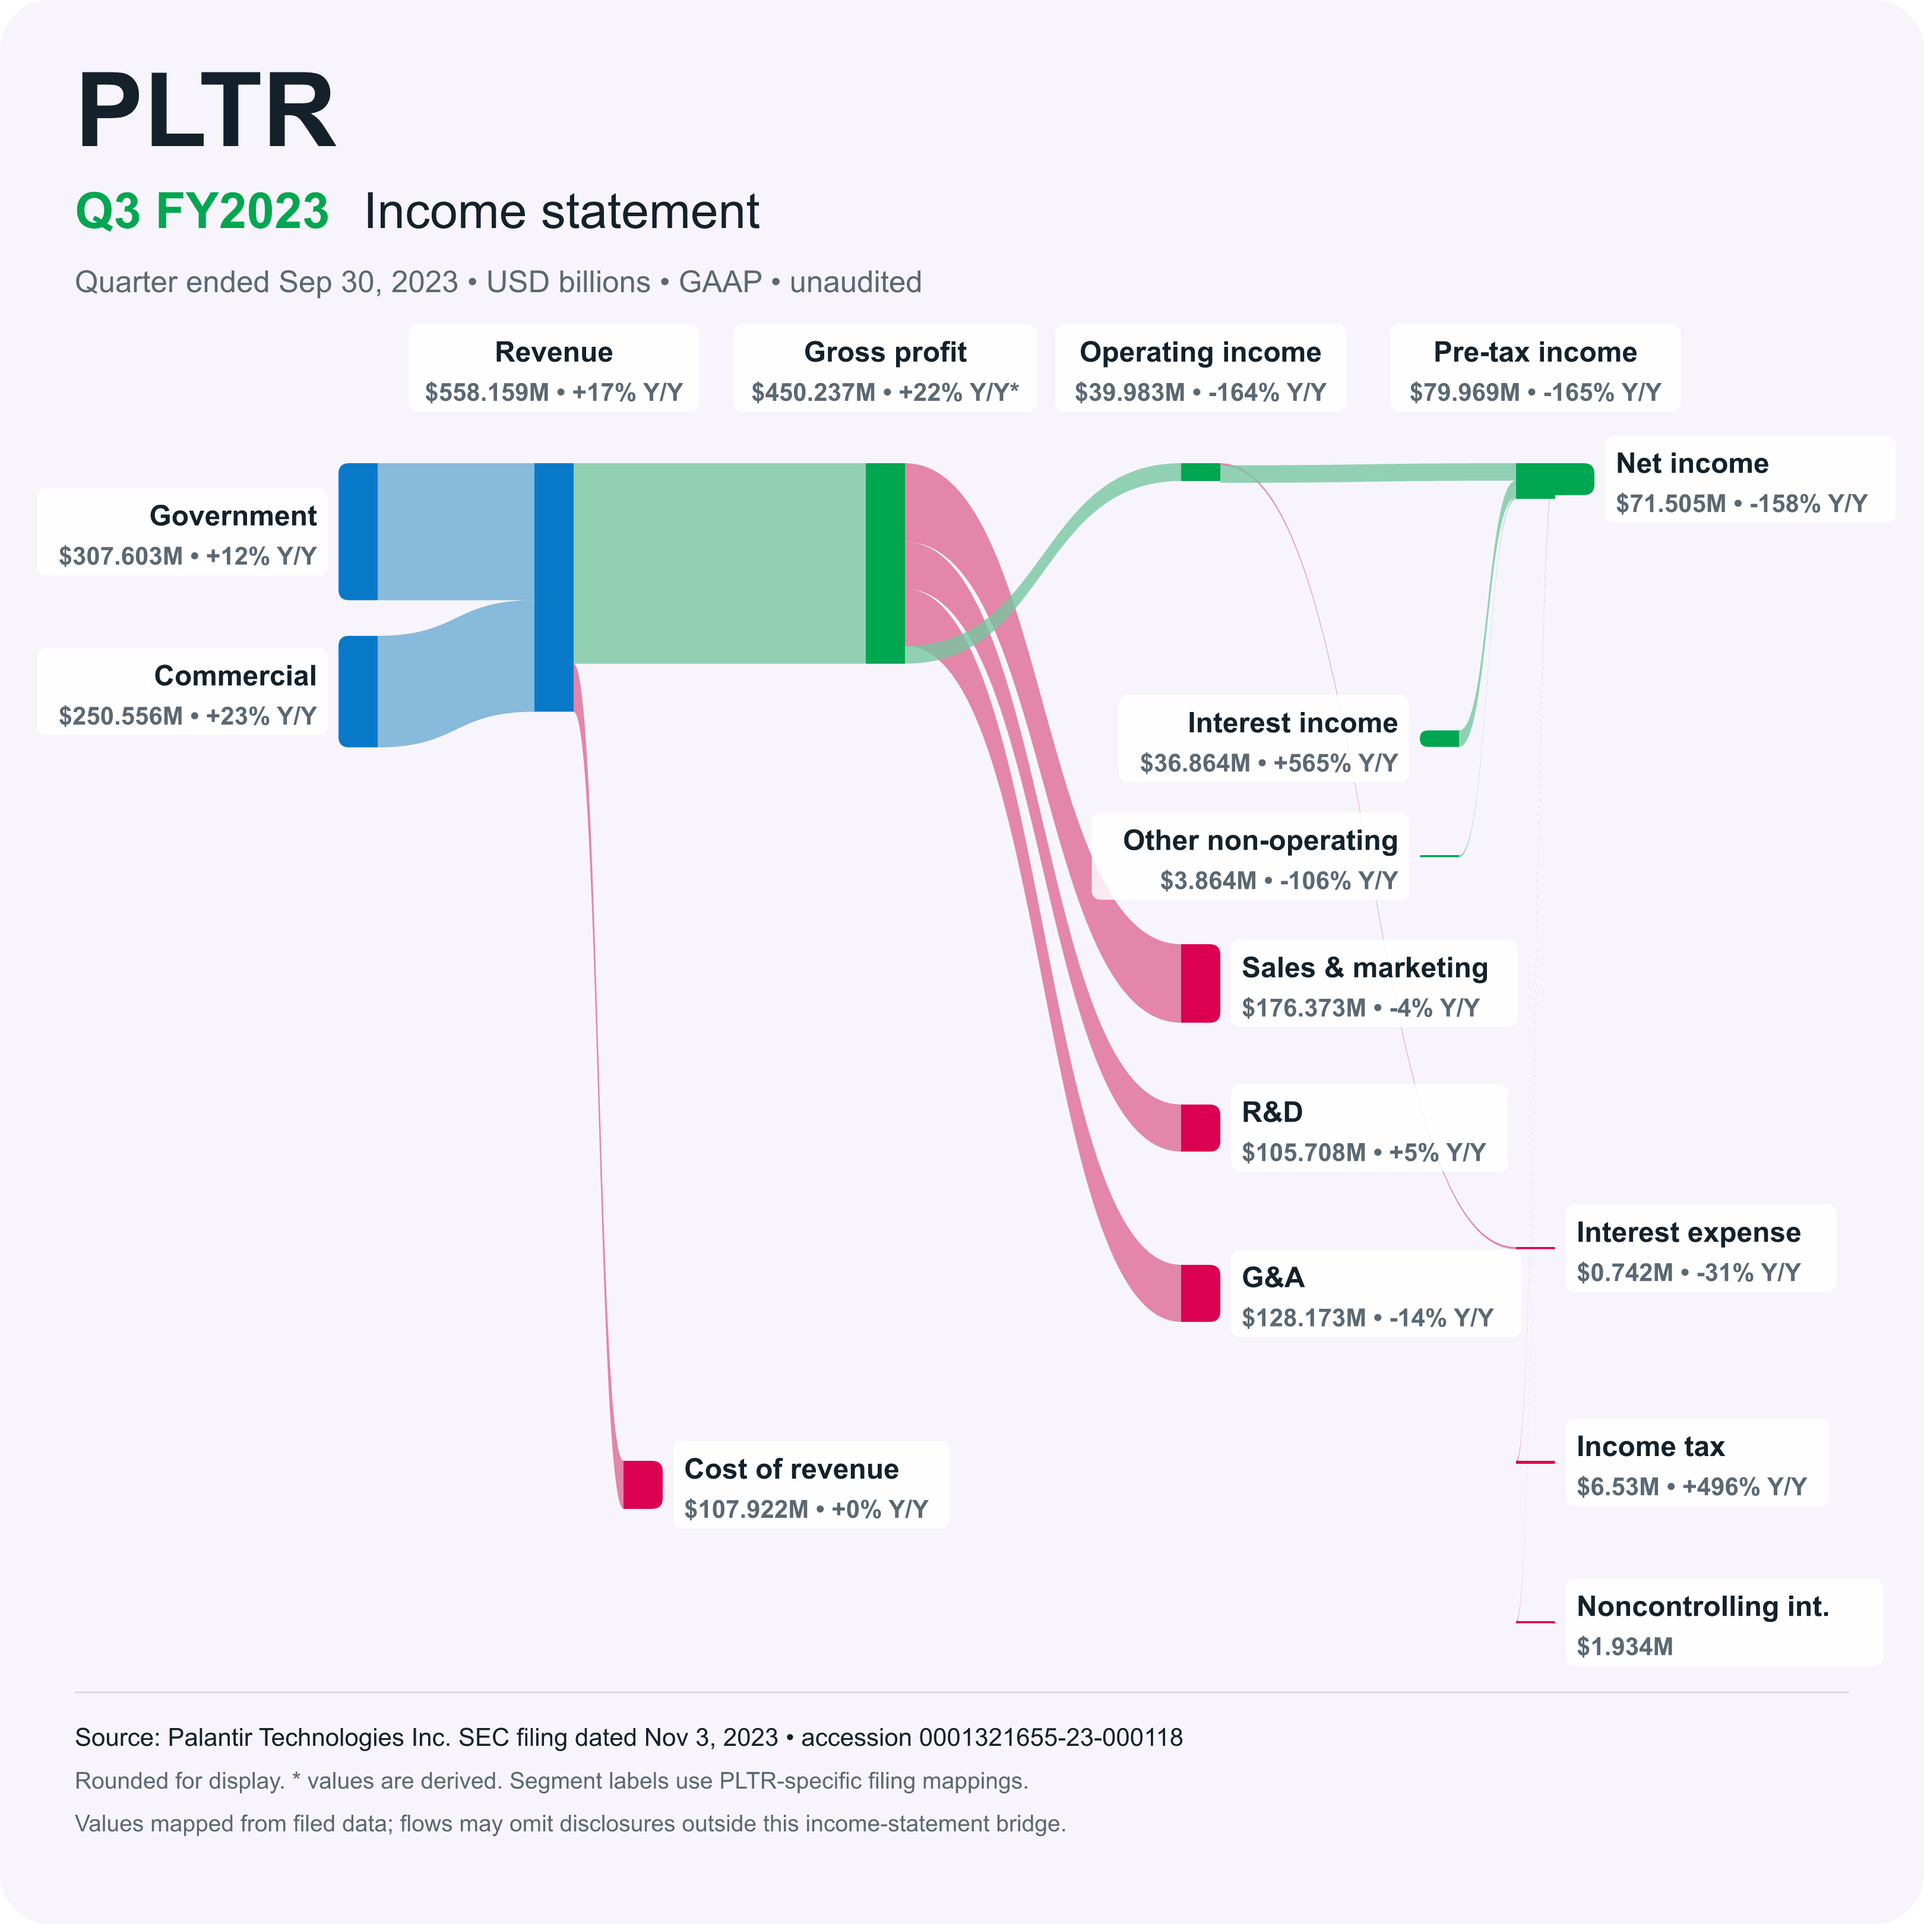
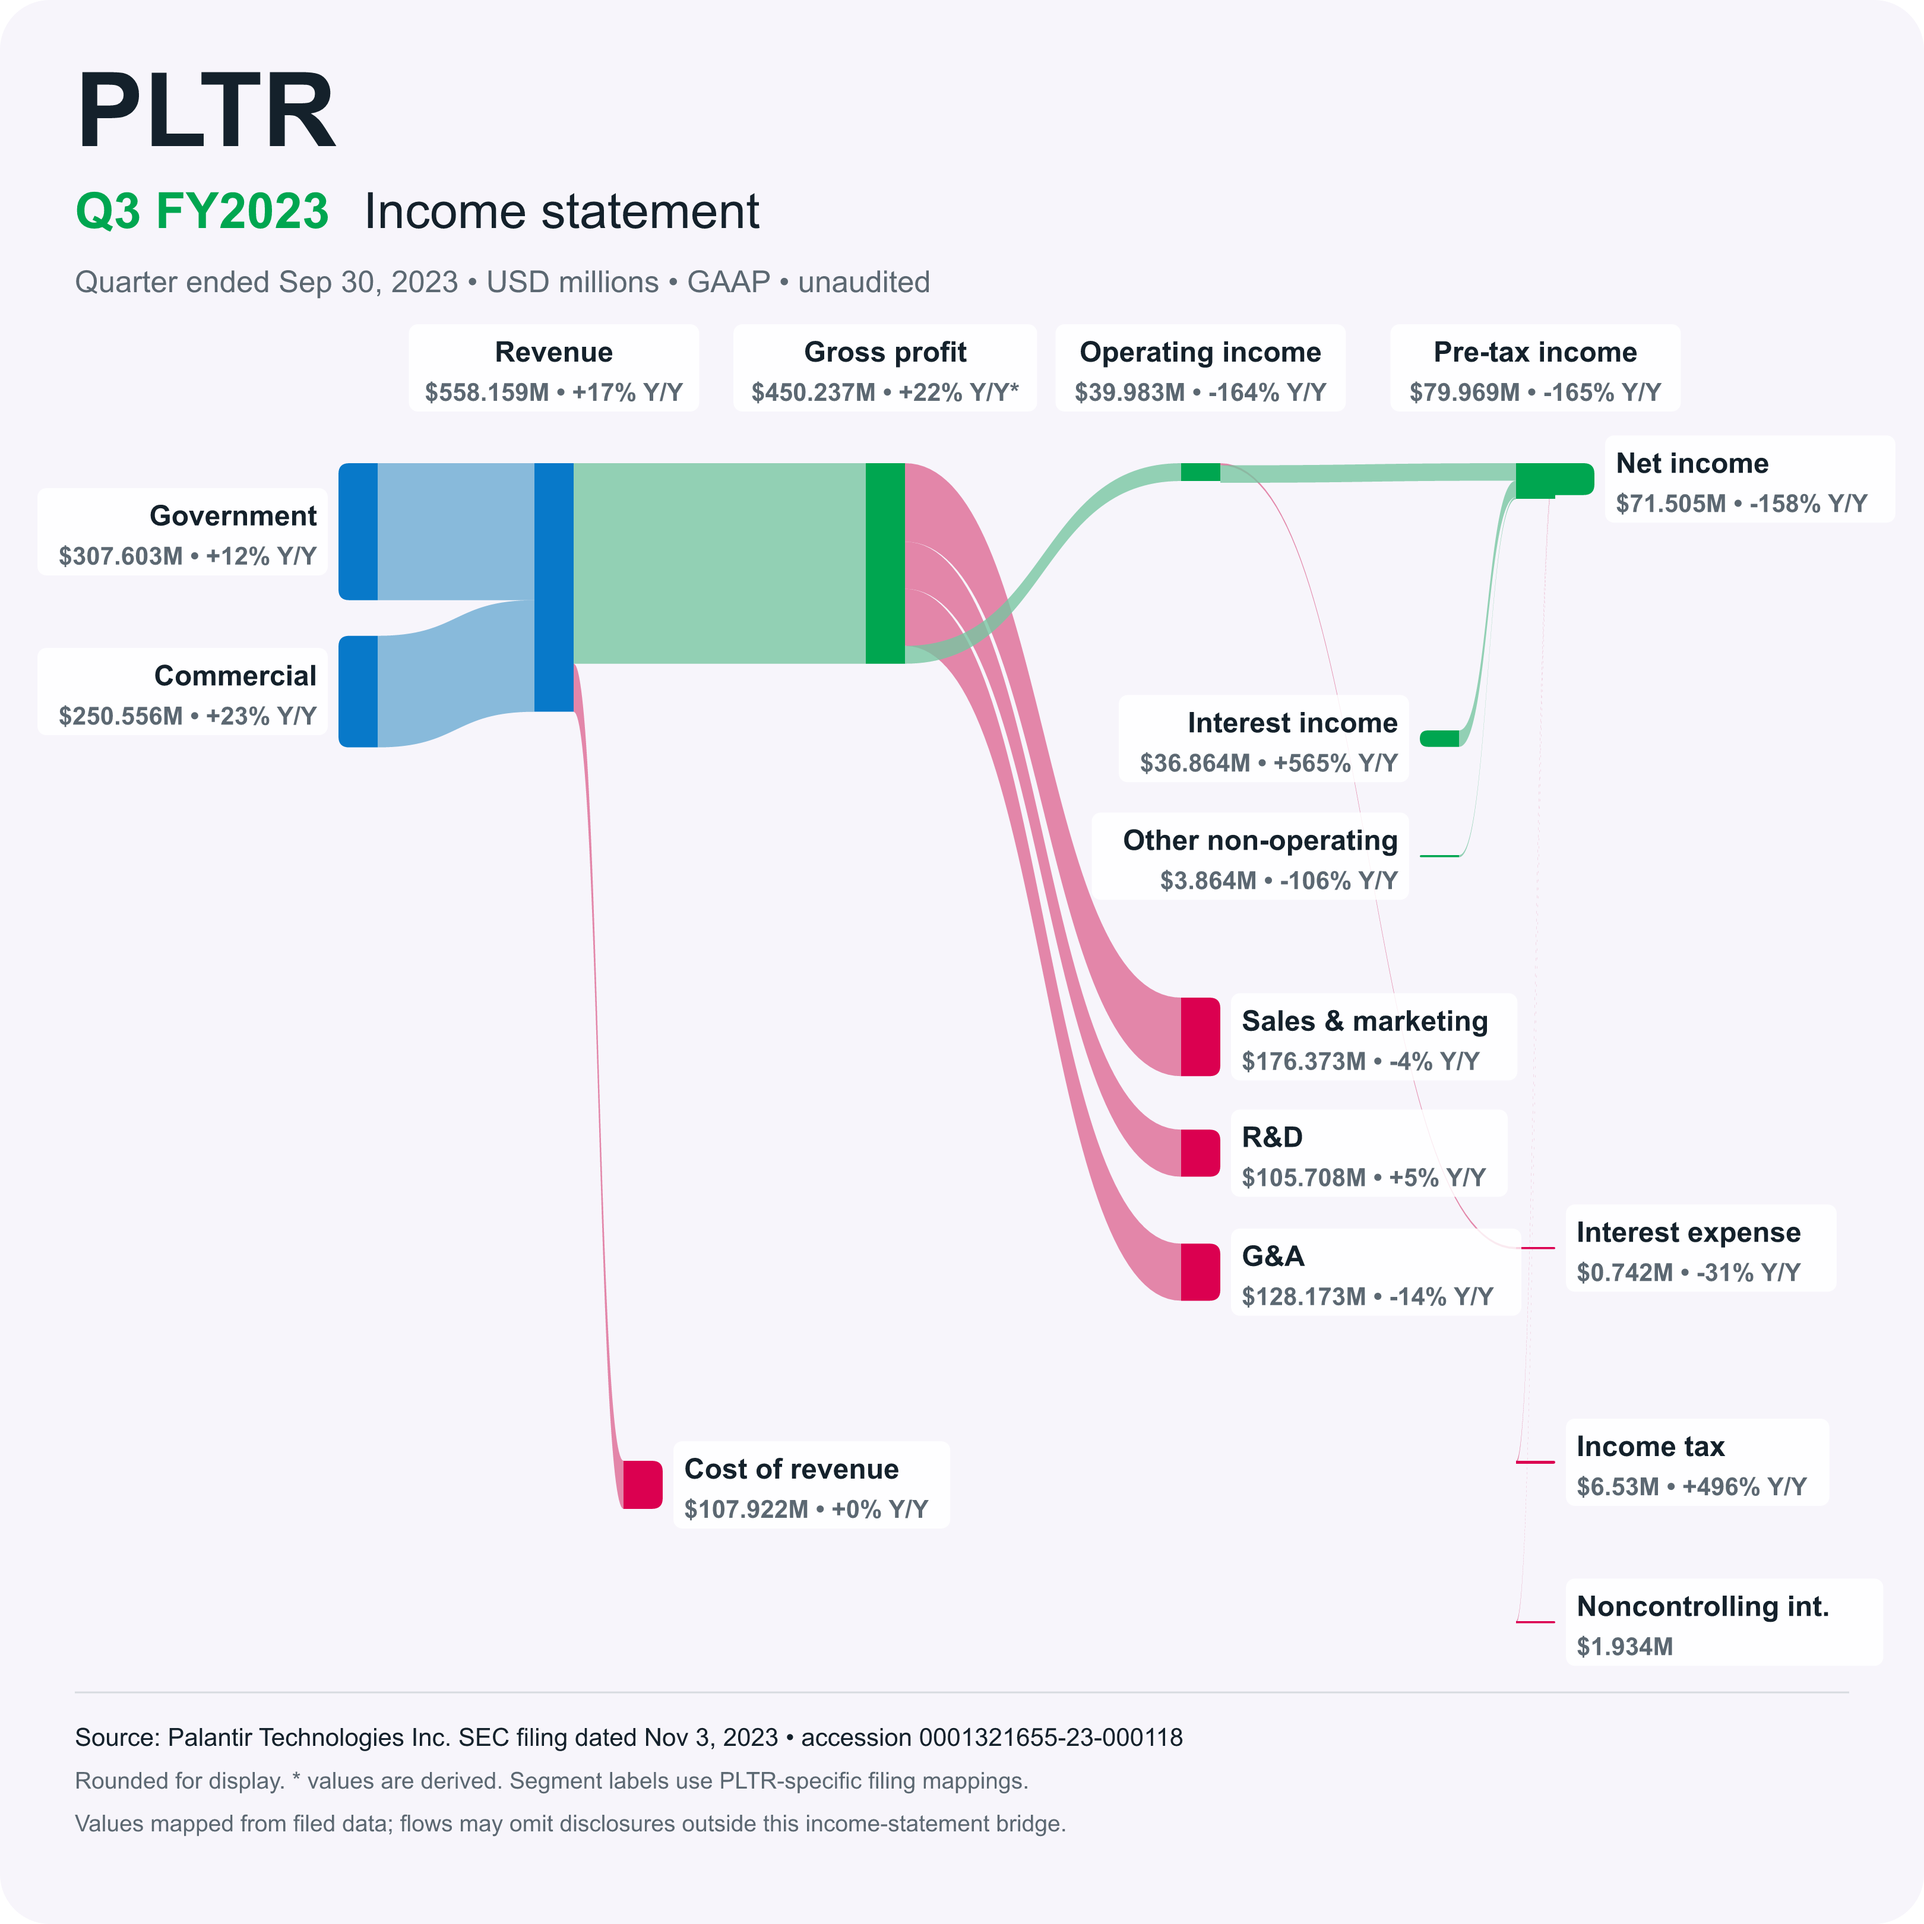
Improve Palantir loss-quarter rendering: data-driven magnitude label and packed opex column

Changed region(s): [[0.4988, 0.2806, 0.7793, 0.6858], [0.2806, 0.1247, 0.4676, 0.1559]]

diff --git a/src/stankey/render.py b/src/stankey/render.py
@@ -427,16 +427,23 @@ def render_svg(quarter: Quarter, destination: Path) -> None:
     _validate_terminal_order(nodes, ribbons)
     quarter_label = f"Q{quarter.fiscal_quarter} FY{quarter.fiscal_year}"
     source = quarter.facts["revenue"].provenance[0]
+    # Describe the overall magnitude from the data: companies whose largest line
+    # is under $1B (e.g. Palantir's early quarters) read as "millions", not
+    # "billions". Individual card values still switch M/B per value.
+    largest_millions = max(
+        abs(fact.value_millions) for fact in quarter.facts.values()
+    )
+    magnitude_word = "billions" if largest_millions >= 1000 else "millions"
     lines: List[str] = [
         '<?xml version="1.0" encoding="UTF-8"?>',
         f'<svg xmlns="http://www.w3.org/2000/svg" width="{WIDTH}" height="{HEIGHT}" viewBox="0 0 {WIDTH} {HEIGHT}" role="img" aria-labelledby="title desc">',
         f'<title id="title">{escape(quarter.ticker)} {quarter_label} income statement Sankey</title>',
-        f'<desc id="desc">Revenue and expense flows in {escape(quarter.currency)} billions based on {escape(quarter.company)} SEC filing data.</desc>',
+        f'<desc id="desc">Revenue and expense flows in {escape(quarter.currency)} {magnitude_word} based on {escape(quarter.company)} SEC filing data.</desc>',
         f'<rect width="1080" height="1080" rx="28" fill="{BACKGROUND}"/>',
         f'<text x="42" y="82" font-family="Arial,sans-serif" font-weight="700" font-size="58" fill="{INK}">{escape(quarter.ticker)}</text>',
         f'<text x="42" y="128" font-family="Arial,sans-serif" font-weight="700" font-size="28" fill="{GREEN}">{quarter_label}</text>',
         f'<text x="204" y="128" font-family="Arial,sans-serif" font-size="28" fill="{INK}">Income statement</text>',
-        f'<text x="42" y="164" font-family="Arial,sans-serif" font-size="17" fill="{MUTED}">Quarter ended {_display_date(quarter.end_date)} • {escape(quarter.currency)} billions • GAAP • unaudited</text>',
+        f'<text x="42" y="164" font-family="Arial,sans-serif" font-size="17" fill="{MUTED}">Quarter ended {_display_date(quarter.end_date)} • {escape(quarter.currency)} {magnitude_word} • GAAP • unaudited</text>',
     ]
     for ribbon in ribbons:
         lines.append(f'<path class="ribbon" d="{_ribbon_path(ribbon)}" fill="{ribbon.color}" fill-opacity="0.78"/>')

diff --git a/src/stankey/companies/palantir.py b/src/stankey/companies/palantir.py
@@ -155,11 +155,18 @@ def layout(quarter: Quarter) -> Tuple[List[Node], List[Ribbon]]:
         nodes[key] = Node(key, 190, segment_y, node_height, BLUE)
         segment_y += max(node_height, 62.0) + 20.0
 
-    expense_y = {
-        "sales_and_marketing": 530.0,
-        "research_and_development": 620.0,
-        "general_and_administrative": 710.0,
-    }
+    # Pack the operating-expense column contiguously by bar height (guide
+    # Step 2) instead of a fixed pixel stride, so the flows do not fan across a
+    # long diagonal. Start the stack below the non-operating band; that band's
+    # "other non-operating" card can grow tall in loss quarters (e.g. 2022Q2's
+    # −$135.8M), so clear it with enough headroom to avoid card collisions.
+    OPEX_GAP = 30.0
+    opex_top = 560.0
+    expense_y = {}
+    running_y = opex_top
+    for key in OPERATING_EXPENSE_KEYS:
+        expense_y[key] = running_y
+        running_y += max(width(key), 34.0) + OPEX_GAP
     for key in OPERATING_EXPENSE_KEYS:
         value = f[key].value_millions
         nodes[key] = Node(
